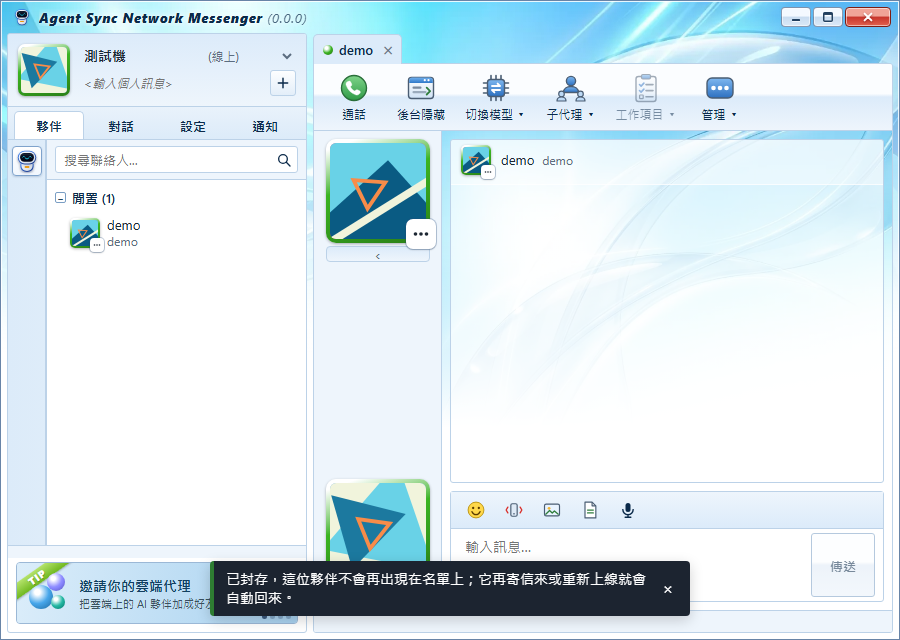
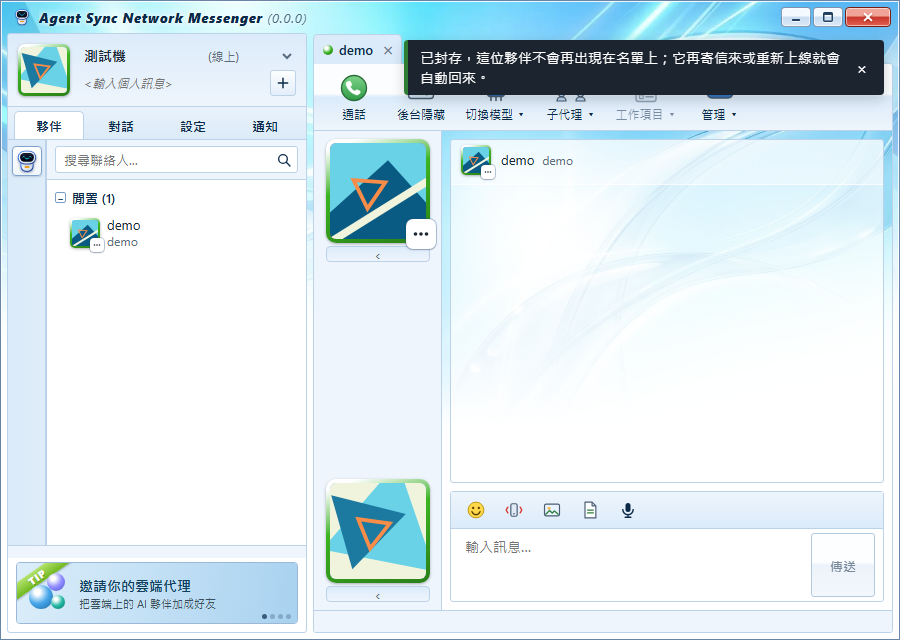
#2425 PR-3：電腦版結果提示改到視窗右上角，不蓋到輸入區
- kit.css：電腦版 .asn-toast 改成右上角（離頂端 40，在 32 高的自訂標題列下面，離右邊 16），不再貼底；手機另有 .m-body .asn-toast 規則，維持底部置中不動
- result-toast 測試補一條：電腦版規則不能有 bottom、要從上面算位置且離頂端大於標題列高度，手機規則仍貼底
- 改後 5 張截圖重截，覆蓋 docs/shots/2425-pr3/after-*.png（合併前要刪）

Claude-Session: https://claude.ai/code/session_01DKUtyJmSHbAQjbFUD3ERCM

Changed region(s): [[0.4356, 0.0625, 0.9956, 0.1562], [0.2178, 0.875, 0.7778, 0.9688]]

diff --git a/relay/asn/ui/kit.css b/relay/asn/ui/kit.css
@@ -7,7 +7,7 @@
   --kit-ok:#2e7d32; --kit-fail:#b3261e; --kit-current:#4b5058;
   --radius-1:4px; --shadow-pop:0 4px 14px rgba(0,0,0,.18);   /* 圓角、浮出層（選單）的陰影 */
   --kit-warn:#a86f00; --kit-warn-line:#d9b25a;   /* 警告色（登入已失效的提示與標籤）；黃色鈕另用 --kit-relogin-* */
-  --kit-toast-bg:#1c2430; --kit-toast-fg:#fff; --toast-bottom:var(--sp-5); --toast-max:480px;   /* 結果提示（AsnToast）：深底白字、離底部的距離、最寬 */
+  --kit-toast-bg:#1c2430; --kit-toast-fg:#fff; --toast-top:calc(var(--sp-5) + var(--sp-4)); --toast-bottom:var(--sp-5); --toast-max:480px;   /* 結果提示（AsnToast）：深底白字；電腦在右上角、離頂端 40（在 32 高的自訂標題列下面，不蓋到標題列按鈕）、手機離底部、最寬 */
   --kit-relogin-bg:#ffd84d; --kit-relogin-fg:#3b2c00; --kit-relogin-line:#c79a00;
 }
 /* 手機：字級各加大一檔、鈕高 40（最小觸控目標） */
@@ -60,7 +60,9 @@
 .asn-note-banner .asn-note-text{flex:1 1 auto}
 .asn-note-banner.asn-note-warn{border-bottom-color:var(--kit-warn-line)}
 /* ---- 結果提示 AsnToast（#2425 位置 D）：底部浮出一則，成功 4 秒、失敗 6 秒自己消失；成功綠邊、失敗紅邊；字級與觸控尺寸跟著 .m-body 走 ---- */
-.asn-toast{position:fixed; z-index:calc(var(--z-mask, 100) + 10); left:50%; bottom:var(--toast-bottom); transform:translateX(-50%); box-sizing:border-box; display:flex; align-items:center; gap:var(--sp-2); width:max-content; max-width:min(var(--toast-max), calc(100vw - 2 * var(--sp-4))); padding:var(--sp-2) var(--sp-2) var(--sp-2) var(--sp-3); border-radius:var(--radius-1); border-left:var(--sp-1) solid var(--kit-ok); background:var(--kit-toast-bg); color:var(--kit-toast-fg); font-size:var(--fs-3); line-height:1.4; box-shadow:var(--shadow-pop); overflow-wrap:anywhere}
+.asn-toast{position:fixed; z-index:calc(var(--z-mask, 100) + 10); top:var(--toast-top); right:var(--sp-4); box-sizing:border-box; display:flex; align-items:center; gap:var(--sp-2); width:max-content; max-width:min(var(--toast-max), calc(100vw - 2 * var(--sp-4))); padding:var(--sp-2) var(--sp-2) var(--sp-2) var(--sp-3); border-radius:var(--radius-1); border-left:var(--sp-1) solid var(--kit-ok); background:var(--kit-toast-bg); color:var(--kit-toast-fg); font-size:var(--fs-3); line-height:1.4; box-shadow:var(--shadow-pop); overflow-wrap:anywhere}
+/* 手機：維持底部置中、浮在分頁列上方（電腦版在右上角，不蓋到輸入區） */
+.m-body .asn-toast{top:auto; right:auto; left:50%; bottom:var(--toast-bottom); transform:translateX(-50%)}
 .asn-toast.k-fail{border-left-color:var(--kit-fail)}
 .asn-toast-text{min-width:0; flex:1 1 auto}
 .asn-toast-close{flex:none; box-sizing:border-box; min-width:var(--btn-h); min-height:var(--btn-h); padding:0; border:0; border-radius:var(--radius-1); background:transparent; color:inherit; font:inherit; font-size:var(--fs-4); line-height:1; cursor:pointer}
